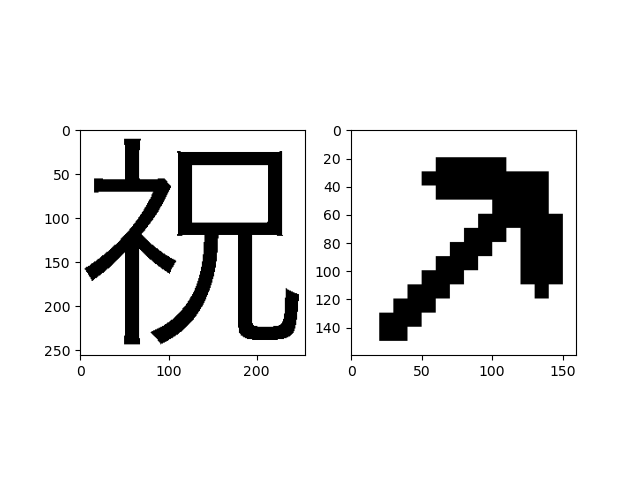
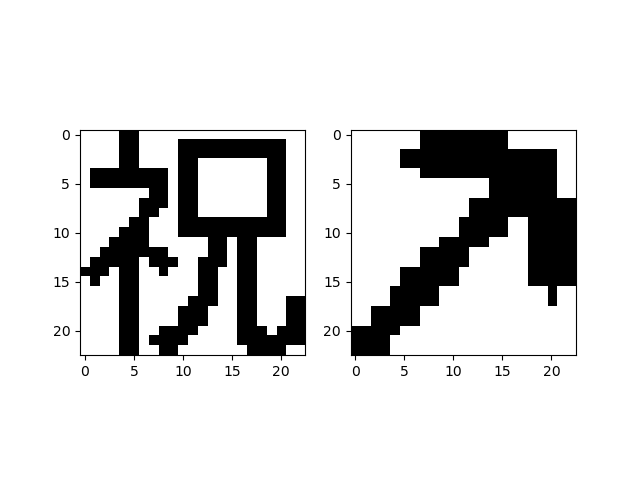
Modify face.py

diff --git a/src/face.py b/src/face.py
@@ -65,19 +65,25 @@ def image_to_face(image_path, *, mode="less", th=254, keep_aspect_ratio=True):
 
 
 if __name__ == "__main__":
-    import sys
+    import argparse
 
-    font_path = "/System/Library/Fonts/ヒラギノ角ゴシック W3.ttc"
+    parser = argparse.ArgumentParser()
+    parser.add_argument("--resolution", "-r", type=int, default=23)
+    parser.add_argument("--char", "-C", default="祝")
+    parser.add_argument("--font_path", "-f", default="/System/Library/Fonts/ヒラギノ角ゴシック W5.ttc")
+    parser.add_argument("--image_path", "-I", default="img/Diamond_Pickaxe_JE3_BE3.png@ge1")
+    parser.add_argument("--save_fig", "-s", default="")
+    args = parser.parse_args()
 
     ax1 = plt.subplot(1, 2, 1)
-    char_to_face("祝", font_path).render(ax1)
+    char_to_face(args.char, args.font_path).resize(args.resolution).render(ax1)
 
     # from: https://minecraft.fandom.com/wiki/Pickaxe
     ax2 = plt.subplot(1, 2, 2)
-    image_to_face("img/Diamond_Pickaxe_JE3_BE3.png", mode="greater", th=1).render(ax2)
+    image_to_face(args.image_path).resize(args.resolution).render(ax2)
 
-    if len(sys.argv) > 1:
-        fig_name = sys.argv[1]
+    if args.save_fig:
+        fig_name = args.save_fig
         plt.savefig(fig_name)
         print("Saved:", fig_name)
     else:
